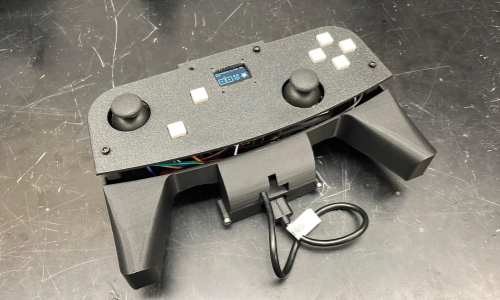
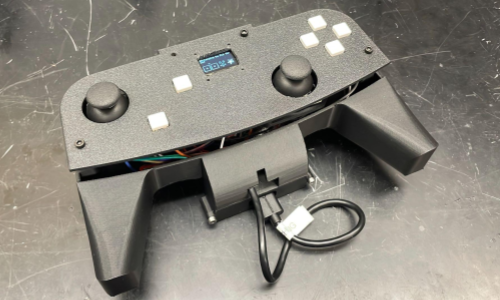
breadcrumbs

diff --git a/_portfolio/olsn.md b/_portfolio/olsn.md
@@ -2,6 +2,8 @@
 title: "OLSN"
 excerpt: "Short description of portfolio item number 1<br/><img src='/images/500x300.png'>"
 collection: portfolio
+permalink: /portfolio/olsn/
+breadcrumbs: true
 ---
 
 ![Fall '25 Showcase](/images/OLSN2025FallShowcase.png)
